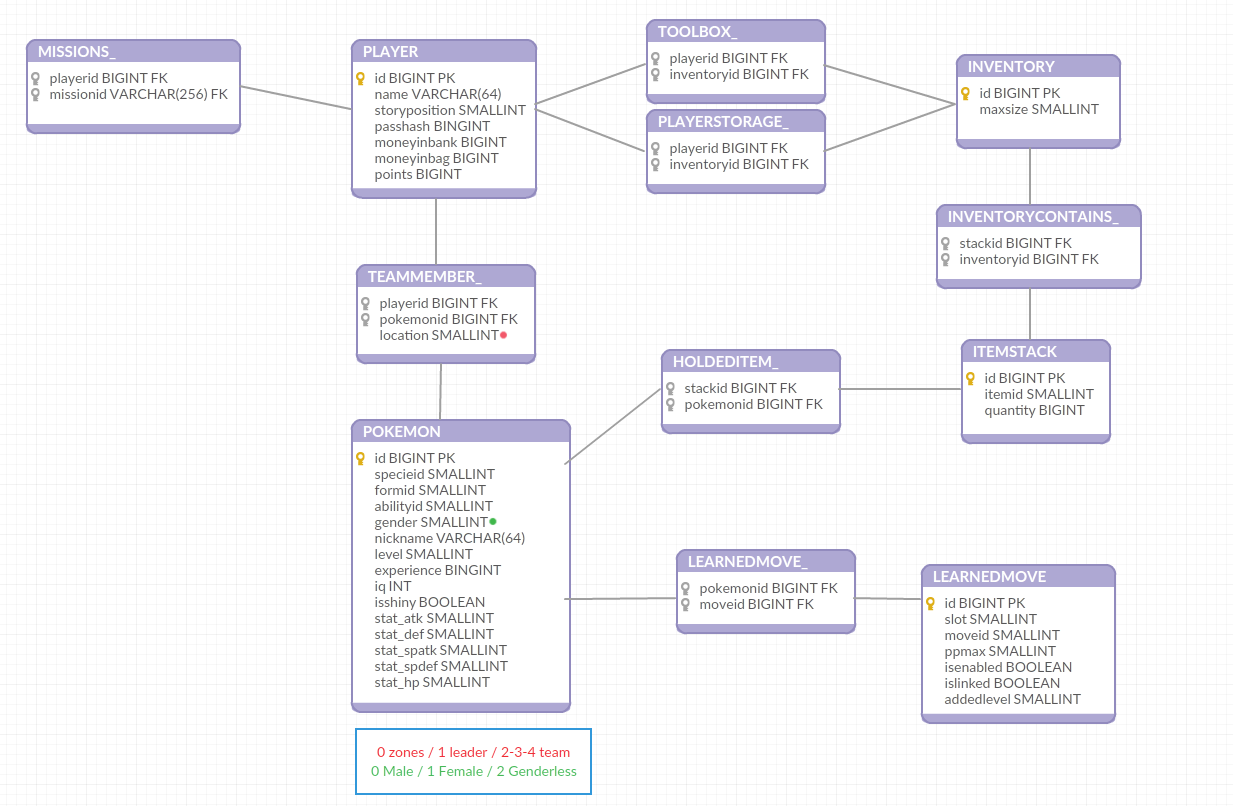
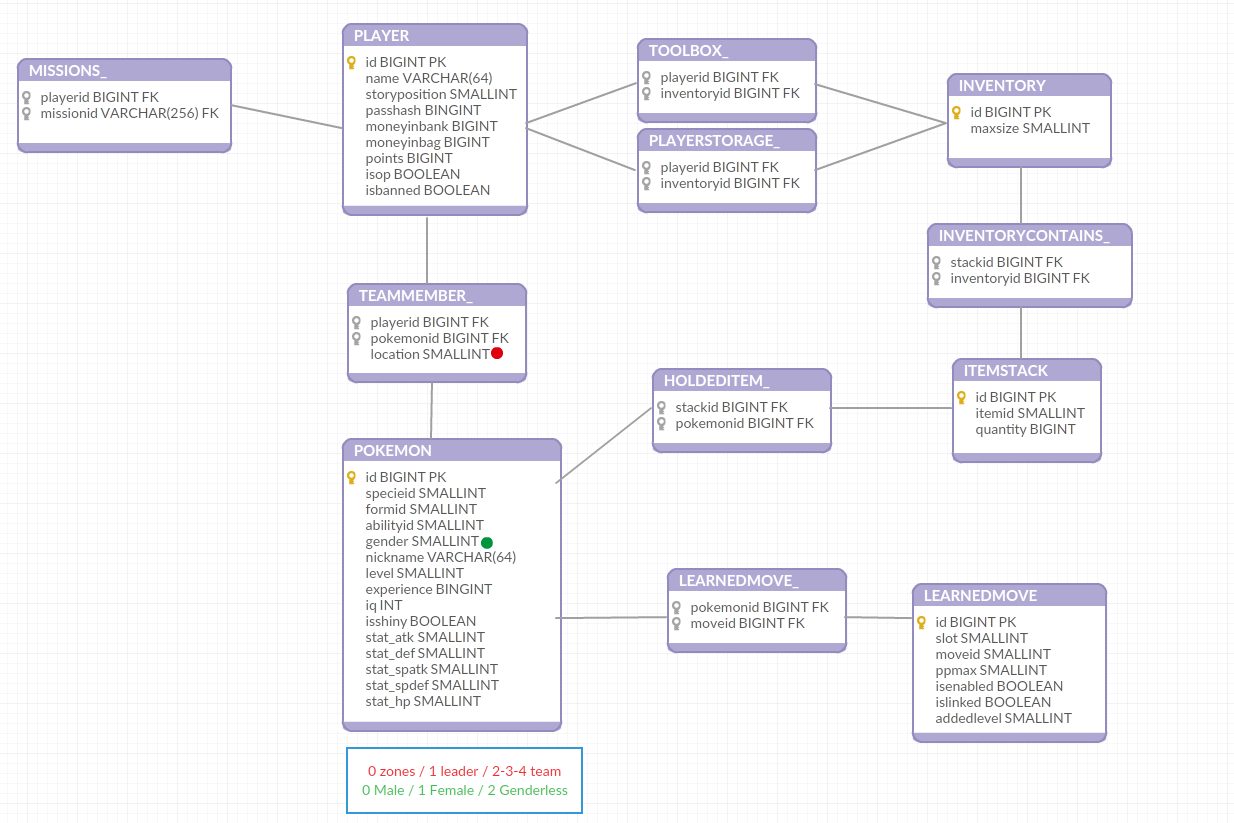
added isop and isbanned fields to DBplayer

Changed region(s): [[0.0, 0.0, 0.9246, 0.9926], [0.4931, 0.2481, 0.9246, 0.5893]]

diff --git a/PMDMMOServer/src/java/com/darkxell/model/ejb/PlayerDAO.java b/PMDMMOServer/src/java/com/darkxell/model/ejb/PlayerDAO.java
@@ -51,7 +51,7 @@ public class PlayerDAO {
                 Connection cn = ds.getConnection();
                 PreparedStatement prepare
                         = cn.prepareStatement(
-                                "INSERT INTO player (moneyinbank, moneyinbag, name, passhash, id, storyposition) VALUES(?, ?, ?, ?, ?, ?)"
+                                "INSERT INTO player (moneyinbank, moneyinbag, name, passhash, id, storyposition, isop, isbanned) VALUES(?, ?, ?, ?, ?, ?, ?, ?)"
                         );
                 prepare.setLong(1, player.moneyinbank);
                 prepare.setLong(2, player.moneyinbag);
@@ -59,6 +59,9 @@ public class PlayerDAO {
                 prepare.setString(4, player.passhash);
                 prepare.setLong(5, newid);
                 prepare.setLong(6, player.storyposition);
+                // Hardcoded false op and banned to preven an eventual exploit
+                prepare.setBoolean(7, false);
+                prepare.setBoolean(8, false);
                 prepare.executeUpdate();
                 cn.close();
                 return newid;
@@ -102,7 +105,7 @@ public class PlayerDAO {
             if (result.first()) {
                 toreturn = new DBPlayer(id, result.getString("name"), result.getString("passhash"),
                         result.getLong("moneyinbank"), result.getLong("moneyinbag"), result.getInt("storyposition"),
-                        null, null, null, null, null, null,result.getInt("points"));
+                        null, null, null, null, null, null, result.getInt("points"), toreturn.isop, toreturn.isbanned);
             }
             cn.close();
             completefind(toreturn);
@@ -126,7 +129,7 @@ public class PlayerDAO {
             if (result.next()) {
                 toreturn = new DBPlayer(result.getLong("id"), result.getString("name"), result.getString("passhash"),
                         result.getLong("moneyinbank"), result.getLong("moneyinbag"), result.getInt("storyposition"),
-                        null, null, null, null, null, null,result.getInt("points"));
+                        null, null, null, null, null, null, result.getInt("points"), toreturn.isop, toreturn.isbanned);
             }
             cn.close();
             if (toreturn != null) {
@@ -222,7 +225,7 @@ public class PlayerDAO {
             Connection cn = ds.getConnection();
             PreparedStatement prepare
                     = cn.prepareStatement(
-                            "UPDATE player SET moneyinbank = ?, moneyinbag = ?, name = ?, passhash = ?, storyposition = ?, points = ? WHERE id = ?"
+                            "UPDATE player SET moneyinbank = ?, moneyinbag = ?, name = ?, passhash = ?, storyposition = ?, points = ?, isbanned = ? WHERE id = ?"
                     );
             prepare.setLong(1, player.moneyinbank);
             prepare.setLong(2, player.moneyinbag);
@@ -230,10 +233,11 @@ public class PlayerDAO {
             prepare.setString(4, player.passhash);
             prepare.setInt(5, player.storyposition);
             prepare.setInt(6, player.points);
-            prepare.setLong(7, player.id);
+            prepare.setBoolean(7, player.isbanned);
+            prepare.setLong(8, player.id);
             prepare.executeUpdate();
             cn.close();
-            //TODO: add the references here too
+            //Note : isop status cannot be updtated to prevent potential exploit.
         } catch (SQLException e) {
             e.printStackTrace();
         }

diff --git a/PMDMMO-common/src/com/darkxell/common/dbobject/DBPlayer.java b/PMDMMO-common/src/com/darkxell/common/dbobject/DBPlayer.java
@@ -24,13 +24,15 @@ public class DBPlayer implements Communicable
 	public DatabaseIdentifier toolboxinventory = new DatabaseIdentifier(0);
 	public ArrayList<String> missionsids = new ArrayList<>();
 	public int points = 0;
+	public boolean isop = false;
+	public boolean isbanned = false;
 
 	public DBPlayer()
 	{}
 
 	public DBPlayer(long id, String name, String passhash, long moneyinbank, long moneyinbag, int storyposition, ArrayList<DatabaseIdentifier> pokemonsinzones,
 			ArrayList<DatabaseIdentifier> pokemonsinparty, DatabaseIdentifier mainpokemon, DatabaseIdentifier toolboxinventory,
-			DatabaseIdentifier storageinventory, ArrayList<String> missionsids,int points)
+			DatabaseIdentifier storageinventory, ArrayList<String> missionsids,int points,boolean isop,boolean isbanned)
 	{
 		this.id = id;
 		if (name != null) this.name = name;
@@ -45,6 +47,8 @@ public class DBPlayer implements Communicable
 		if (storageinventory != null) this.storageinventory = storageinventory;
 		if (missionsids != null) this.missionsids = missionsids;
 		this.points = points;
+		this.isop = isop;
+		this.isbanned = isbanned;
 	}
 
 	@Override
@@ -64,6 +68,8 @@ public class DBPlayer implements Communicable
 		if (!this.storageinventory.equals(o.storageinventory)) return false;
 		if (!this.missionsids.equals(o.missionsids)) return false;
 		if (this.points != o.points) return false;
+		if (this.isop != o.isop) return false;
+		if (this.isbanned != o.isbanned) return false;
 		return true;
 	}
 
@@ -108,6 +114,8 @@ public class DBPlayer implements Communicable
 				if (id.isString()) this.missionsids.add(id.asString());
 		}
 		this.points = value.getInt("points", this.points);
+		this.isop = value.getBoolean("isop", false);
+		this.isbanned = value.getBoolean("isbanned", false);
 	}
 
 	@Override
@@ -148,6 +156,8 @@ public class DBPlayer implements Communicable
 		}
 
 		root.add("points", this.points);
+		root.add("isop", this.isop);
+		root.add("isbanned", this.isbanned);
 		return root;
 	}
 

diff --git a/PMDMMO-common/test/com/darkxell/common/test/tests/DungeonEventTransferTest.java b/PMDMMO-common/test/com/darkxell/common/test/tests/DungeonEventTransferTest.java
@@ -35,7 +35,7 @@ import com.darkxell.common.util.Direction;
 
 public class DungeonEventTransferTest extends UTest
 {
-	private Player _player = new Player(new DBPlayer(69, "DaWae", "no U", 45, 99, 0, new ArrayList<>(), new ArrayList<>(), null, null, null, null, 0));
+	private Player _player = new Player(new DBPlayer(69, "DaWae", "no U", 45, 99, 0, new ArrayList<>(), new ArrayList<>(), null, null, null, null, 0,false,false));
 	private Dungeon d = DungeonRegistry.find(4);
 	private DungeonExploration dungeon = d.newInstance(798654123);
 	private Floor floor;

diff --git a/PMDMMO-common/test/com/darkxell/common/test/tests/DBObjecttransferTest.java b/PMDMMO-common/test/com/darkxell/common/test/tests/DBObjecttransferTest.java
@@ -57,7 +57,7 @@ public class DBObjecttransferTest extends UTest
 
 		// Player
 		DBPlayer j = new DBPlayer(0, "My Name", "P455w0Rd----H45H", 1, 2, 3, new ArrayList<>(), idArray, new DatabaseIdentifier(4), new DatabaseIdentifier(5),
-				new DatabaseIdentifier(6), null,0);
+				new DatabaseIdentifier(6), null,0,false,false);
 		DBPlayer j2 = new DBPlayer();
 		j2.read(j.toJson());
 		if (!j.equals(j2))

diff --git a/PMDMMO-common/src/com/darkxell/common/player/Player.java b/PMDMMO-common/src/com/darkxell/common/player/Player.java
@@ -32,7 +32,7 @@ public class Player
 	public Player(String name, Pokemon pokemon)
 	{
 		this(new DBPlayer(0, name, null, 0, 0, 0, new ArrayList<>(), new ArrayList<>(), pokemon == null ? null : new DatabaseIdentifier(pokemon.id()), null,
-				null,null,0));
+				null,null,0,false,false));
 		this.setLeaderPokemon(pokemon);
 	}
 
